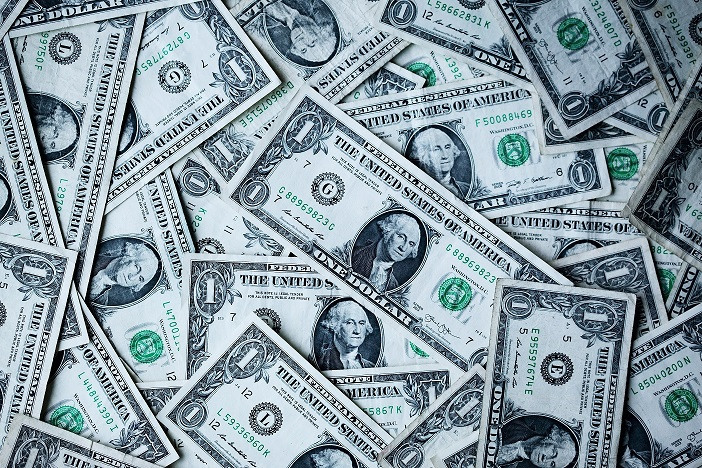
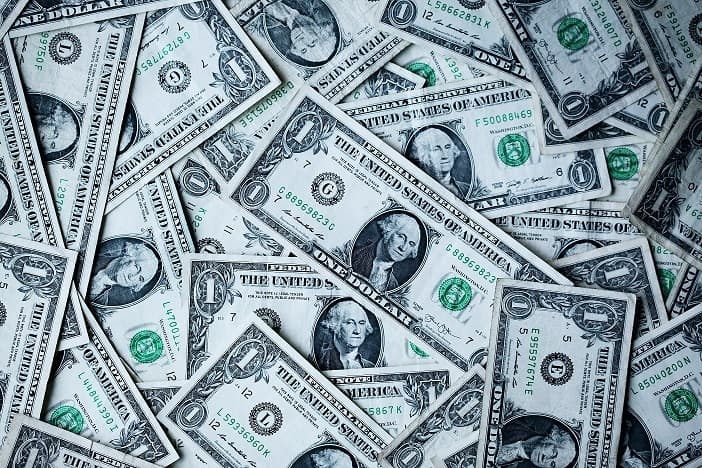
updated image folder

diff --git a/faq/index.html b/faq/index.html
@@ -49,7 +49,7 @@
 
     <main class="faq">
       <div>
-        <img src="../img\faq.png" alt="">
+        <img src="../img/faq.jpg" alt="">
       </div>
       <div class="content-wrapper">
         <h1>Frequently Asked Questions</h1>
